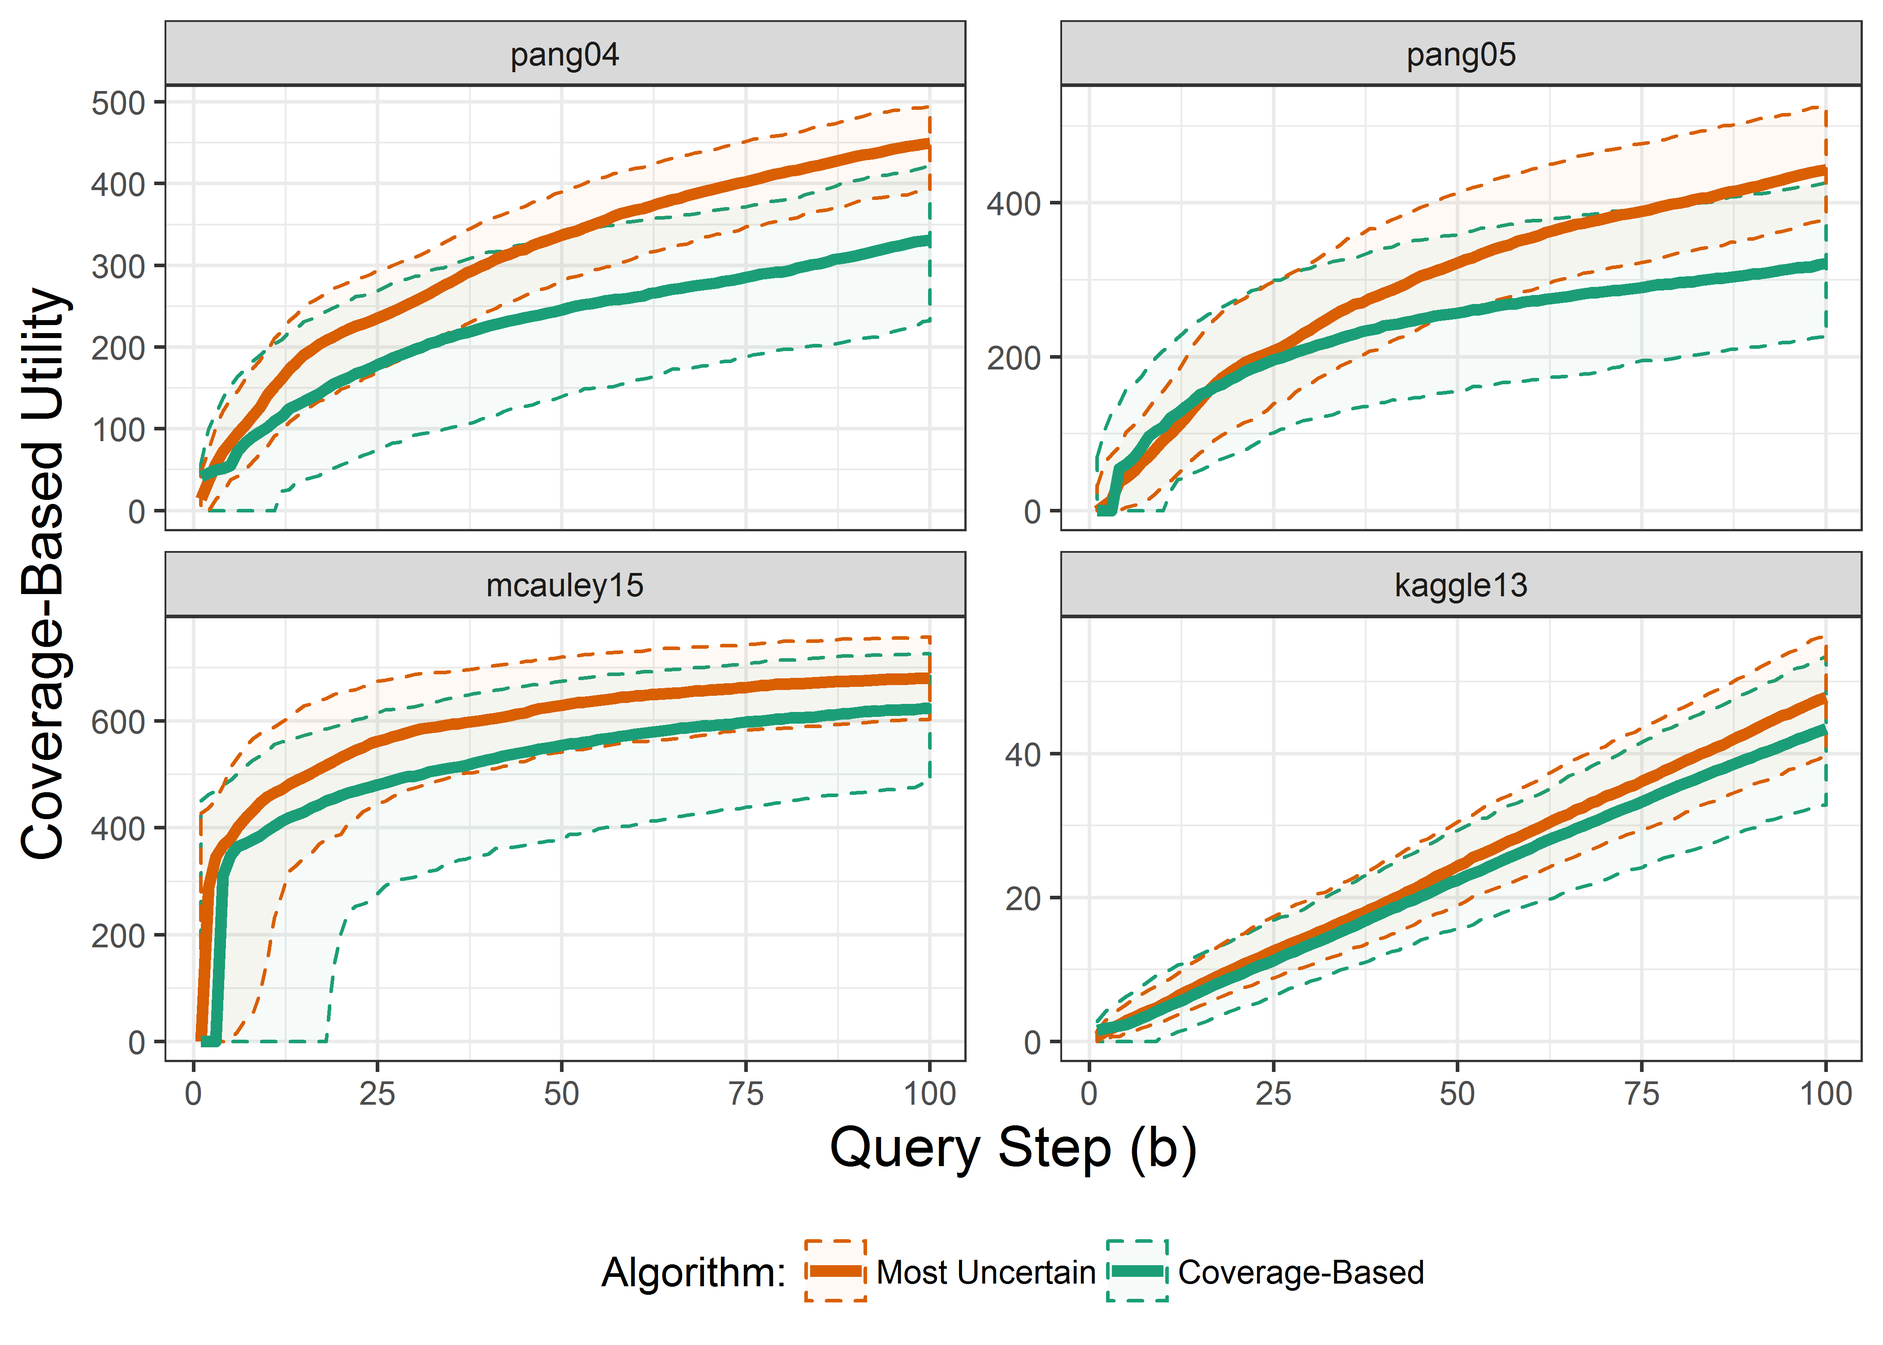
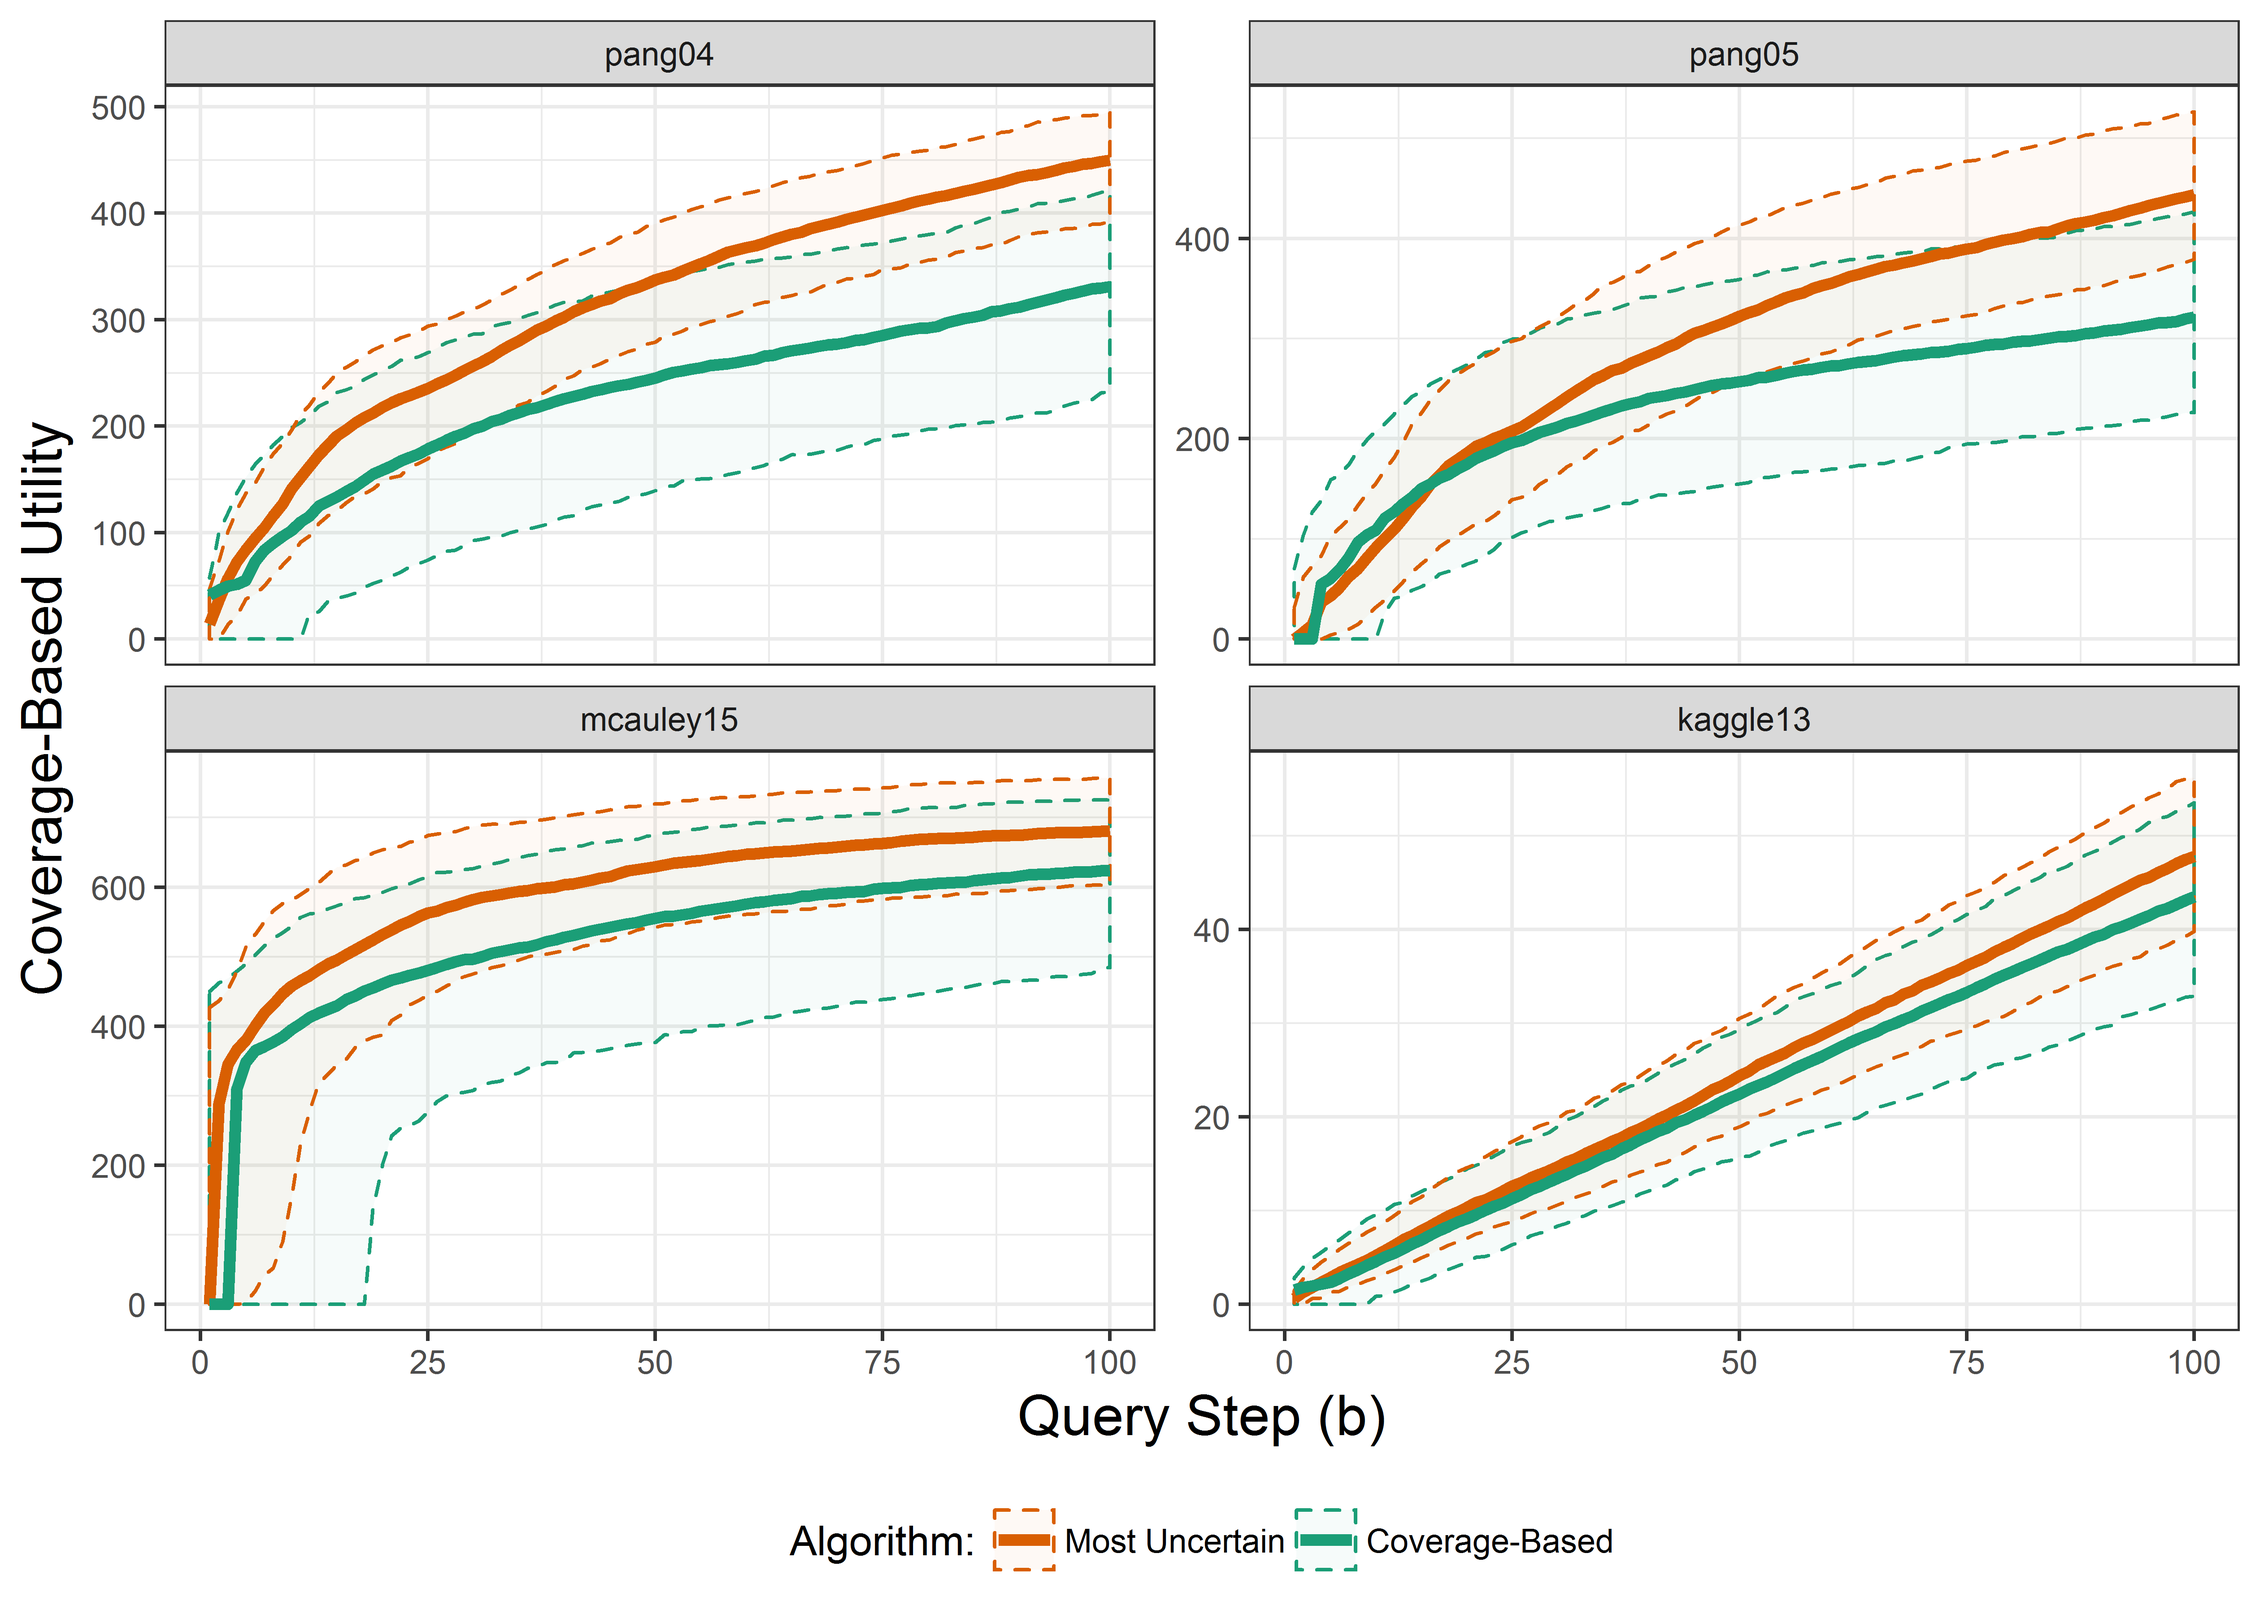
Revise figures and captions

diff --git a/writeups/AAAI/build/MaurerBennetteAAAI.tex b/writeups/AAAI/build/MaurerBennetteAAAI.tex
@@ -85,7 +85,7 @@ Methods to search for UUs have been proposed with semi-automated processes \cite
 \begin{figure*}[h!]
   \centering
   \includegraphics[width=\textwidth]{../experimentsAndPlots/CoverageVsMostUncertainPlaceholder.png}
-  \caption{Empirical evidence that Coverage-Based Utility reward low confidence search.}
+  \caption{Comparison of coverage-based utility outcomes achieved under most uncertain and coverage-based search algorithms. Monte Carlo medians (solid) and 90\% prediction bands (dashed).  Higher coverage-based utility is achieved with most uncertain searches.}
   \label{fig:coverutil}
 \end{figure*}
 
@@ -93,7 +93,7 @@ Looking closer at the coverage-based utility model, it sums the prediction confi
 
 Given this utility model the search for UUs is performed by greedily selecting the instance $q'$ that maximizes the expected utility increase.  Meaning, $q'$ is selected to maximize, $$E\left[U_x\left(Q \cup q'\right)\right] = \hat{\phi}(x) \cdot c_x \cdot \max_{q \in S \cup q'} \left\{sim\left(x,q \right) \right\},$$ where $\hat{\phi}(x) = P\left(y_x \neq M(x) |Q \right)$ is the cluster conditional probability that $x$ is misclassified given the query set.  As previously stated, this method is designed to incentivize a broader search for UUs and gives higher utility for finding misclassifications in higher confidence regions.  
 
-Unfortunately, the coverage-based utility search consistently achieves lower utility than the simple strategy of sequentially querying instances for which the classifier is most uncertain.  This is shown in Figure~\ref{fig:coverutil} which displays Monte Carlo medians and 90\% confidence envelopes of the coverage-based utility for the four test datasets made available in \citet{Bansal2018}.  To account for the variability of greedy search algorithms due to initial conditions, searches are performed following each strategy for 1000 random samples of the test data of size n=1000, with a budget of B=100 queries.  We believe the superior performance of the most uncertain search exposes an issue in the coverage-based utility model.  
+Unfortunately, the coverage-based utility search consistently achieves lower utility than the simple strategy of sequentially querying instances for which the classifier is most uncertain.  This is shown in Figure~\ref{fig:coverutil} which displays Monte Carlo medians and 90\% predictions bands of the coverage-based utility for the four test datasets made available in \citet{Bansal2018}.  To account for the variability of greedy search algorithms due to initial conditions, searches are performed following each strategy for 1000 random samples of the test data of size n=1000, with a budget of B=100 queries.  We believe the superior performance of the most uncertain search exposes an issue in the coverage-based utility model.  
 
 An issue with the coverage-based utility model is that it rewards the discovery of UUs near instances for which the classifier has high confidence, not the discovery of high confidence UUs themselves.  Therefore, the utility model may reward the discovery of low confidence mistakes more than the discovery of high confidence mistakes; the stated goal of the search. This is because there is no guarantee that instances for which the classifier is similarly confident are confined to the same area of the feature space.  Meaning, it may be better to discover the easily found low confidence mistakes than the difficult to find high confidence mistakes. This is demonstrated by results shown in Figure~\ref{fig:coverutil}. \km{Upon closer inspection of the query sets, the most uncertain search (unsurprisingly) discovers a larger number UUs than the coverage-based search; thus providing higher similarity to test points by finding \textit{more} UUs, than with a more selectively for coverage-based criterion.}
 
@@ -172,7 +172,7 @@ The classifiers for Pang04, Pang05, and McAuley15 use logistic regression with u
 
 \begin{figure}[hbtp]
   \includegraphics[width=.45\textwidth]{../experimentsAndPlots/overconfidence.png}
-  \caption{Observed overconfidence of the model for experimental data sets.}
+  \caption{Observed classifier overconfidence profiles of each experimental data set.}
   \label{fig:overconf}
 \end{figure}
 
@@ -188,11 +188,11 @@ To evaluate the queries generated by the facility locations utility model we col
 \begin{figure*}[t]
  \centering
   \includegraphics[width=\textwidth]{../experimentsAndPlots/flUtilPlaceholder.png}
-  \caption{Faciltiy Locations Utility rewards finding overconfidence}
+  \caption{Comparison of facility locations utility outcomes achieved under most uncertain and coverage-based search algorithms. Monte Carlo medians (solid) and 90\% prediction bands (dashed).  Higher facility locations utility is typically achieved with facility locations search in all cases.}
   \label{fig:flutil}
 \end{figure*}
 
-Figure~\ref{fig:flutil} displays the Monte Carlo medians and 90\% confidence envelopes for the utility gains, paired with a visualization of confidence ranges where the model most overestimates its accuracy. We see that the most-uncertain selection method – that begins its search with points with confidence values just above $\tau$=.65 – provides the strongest utility for the pang04 case, as is desired, because these points are also shown to be most overconfident. The facility locations utility outcomes from using the logistic-based optimization were typically slightly lower. For the pang05 case where the overconfidence is skewed right but relatively ubiquitous, we again find very comparable utility between the logistic-based and the most-uncertain queries. For the mcauley15 where overconfidence is heavily skewed left, we now see inconsistent but strong facility location utility outcomes from the facility locations search, and consistently low utility outcomes from the most-uncertain queries. In the last case of kaggle14 where the overconfidence is skewed left but relatively ubiquitous, the facility locations search provided less consistent, but typically stronger utility than most-uncertain searches. 
+Figure~\ref{fig:flutil} displays the Monte Carlo medians and 90\% predictions bands for the utility gains, paired with a visualization of confidence ranges where the model most overestimates its accuracy. We see that the most-uncertain selection method – that begins its search with points with confidence values just above $\tau$=.65 – provides the strongest utility for the pang04 case, as is desired, because these points are also shown to be most overconfident. The facility locations utility outcomes from using the logistic-based optimization were typically slightly lower. For the pang05 case where the overconfidence is skewed right but relatively ubiquitous, we again find very comparable utility between the logistic-based and the most-uncertain queries. For the mcauley15 where overconfidence is heavily skewed left, we now see inconsistent but strong facility location utility outcomes from the facility locations search, and consistently low utility outcomes from the most-uncertain queries. In the last case of kaggle14 where the overconfidence is skewed left but relatively ubiquitous, the facility locations search provided less consistent, but typically stronger utility than most-uncertain searches. \km{Thus in all scenarios, the facility locations utility model is properly rewarding the pursuit of the most overconfident points, as per its design.}
 
 \subsection{Efficient Discovery of Overconfidence}
 
@@ -200,11 +200,11 @@ Secondly, we compare the queries gathered by the coverage-based utility algorith
 $$ ||S|| / \sum_{x=1}^B(1- c_x) $$
 thus counting the number of discovered misclassifications, divided by the number of misclassifications expected given the confidence values of the points queried. The SDR can be interpreted as the number of time more misclassifications that were found than were expected based on model confidence. 
 
-Figure~\ref{fig:sdr} compares the Monte Carlo medians and 90\%  central intervals for the SDR values associated with 1000 random samples of size n=1000 from each of the datasets, using each of the three query algorithms: facility locations, coverage-based, and most uncertain. The SDR intervals for pang04 and pang 05 reveal that all three algorithms are similarly efficient at discovering overconfident UUs in situations where the overconfident points fall just beyond the defined threshold, $\tau = .65$. The SDR intervals for mcauley15 and kaggle13, where overconfidence was most prevalent for points far beyond the threshold, the facility locations utility algorithm typically provides the most efficient discovery of overconfident points. For kaggle13, the median SDR for the facility locations algorithm is 1.2 times larger than the coverage-based utility algorithm and 1.6 times larger than the most uncertain algorithm.
+Figure~\ref{fig:sdr} compares the Monte Carlo medians and 90\%  central prediction intervals for the SDR values associated with 1000 random samples of size n=1000 from each of the datasets, using each of the three query algorithms: facility locations, coverage-based, and most uncertain. The SDR intervals for pang04 and pang 05 reveal that all three algorithms are similarly efficient at discovering overconfident UUs in situations where the overconfident points fall just beyond the defined threshold, $\tau = .65$. The SDR intervals for mcauley15 and kaggle13, where overconfidence was most prevalent for points far beyond the threshold, the facility locations utility algorithm typically provides the most efficient discovery of overconfident points. For kaggle13, the median SDR for the facility locations algorithm is 1.2 times larger than the coverage-based utility algorithm and 1.6 times larger than the most uncertain algorithm.
 
 \begin{figure}[hbtp]
   \includegraphics[width=.49\textwidth]{../experimentsAndPlots/discoveryRatioPlaceholder.png}
-  \caption{Misclassification Discovery Ratio.}
+  \caption{Monte Carlo medians and 90\% prediction intervals of the standardize discovery ratio.}
   \label{fig:sdr}
 \end{figure}
 
